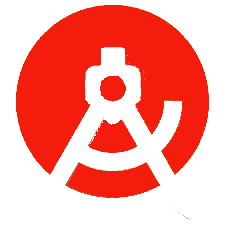
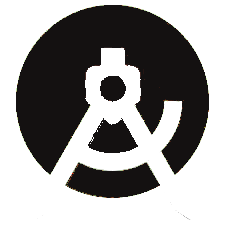
5/19 and 5/21 Devlogs
Picture Updates and CAD content

diff --git a/software.html b/software.html
@@ -63,7 +63,7 @@
             for complex path following. Roadrunner can create profiles for proportional, integral, and derivative control, motion profiles on a singular axis as well as complex paths
             for a robot to follow. Implementing this into our code allows us to take full advantage of our holonomic drivetrain during the autonomous period, as well
             as minimize error during the autonomous period. Tuning the PID of the robot and creating paths to follow is an ongoing process.</p>
-            <img src="Imgs/compass.png"class="projectImg">
+            <img src="Imgs/PID2.png"class="projectImg"> <!---FLAG FOR REPLACEMENT*/--->
         </div>
     </div>
 </section>
@@ -74,19 +74,19 @@
             <h3 class="projectTitle">GitHub</h3>
             <p class="projectText">The team has established a git repository for each year, and for the 2019-2020 season two individual repositories for each robot. Github
             helps keep us organized as well as keep track of a "final" version of the code that we can view for competitions.</p>
-            <img src="Imgs/github.png"class="projectImg">
+            <img src="Imgs/github.png"class="projectImg"> <!---FLAG FOR REPLACEMENT*/--->
         </div>
         <div class="projectSection">
             <h3 class="projectTitle">Android Studio</h3>
             <p class="projectText"> The team uses Android Studio to develop code in Java. FTC provides teams with a standard "base" version of the code used to interact
             with the robot, this only contains examples for how to program and teams must develop and expand from there.</p>
-            <img src="Imgs/AStudio.png"class="projectImg">
+            <img src="Imgs/AStudio.png"class="projectImg"> <!---FLAG FOR REPLACEMENT*/--->
         </div>
         <div class="projectSection">
             <h3 class="projectTitle">FTC Dashboard</h3>
             <p class="projectText">FTC Dashboard is a gradle plugin built by another FTC team that allows us to see telemetry data from the robot on a computer. We can then
             graph this information or save it for later. This helps greatly with PID tuning.</p>
-            <img src="Imgs/compass.png"class="projectImg">
+            <img src="Imgs/Graphs.png"class="projectImg"> <!---FLAG FOR REPLACEMENT*/--->
         </div>
     </div>
 </section>

diff --git a/devBlog.html b/devBlog.html
@@ -24,6 +24,31 @@
 <section class="development">
     <h2 class="devSubHeader">Blog Entries:</h2>
     <article class="blog">
+        <h3 class="blogTitle">Man is Photoshop Complicated</h3>
+        <h4 class="blogDate">5/21/2020</h4>
+        <p class = "blogText"> Well yesterday I couldn't do much but today I used Photoshop to clean up and add new silhouetted images for the software page. I also <br>
+            have new content in for the CAD pages and replaced all those images I marked
+            TODO: <br>
+            Do Sea Cadets Page <br>
+            Do Personal Projects Page
+
+        </p>
+    </article>
+    <article class="blog">
+        <h3 class="blogTitle"> DevRush2: Electric Boogaloo</h3>
+        <h4 class="blogDate">5/19/2020</h4>
+        <p class = "blogText"> OK yeah this got abandoned for a bit, but I'm back! After a bit of research I think for now I'm good with keeping the site as-is in terms of layout. <br>
+            I want to focus on content instead of fancy scrolling images or something (especially considering I'm lacking good images). So far I've flagged placeholder images for replacement.. <br>
+            And I'm waiting to receive the replacements from school sources. I've also gotta get photoshop on the computer again to edit the Silhouetted logos.
+            TODO: <br>
+            Retreive new images <br>
+            Download photoshop <br>
+            Edit and Replace placeholder images <br>
+            UPDATE ROBOTICS CAD: Cinnaminson Lessona and Robots to the Rescue
+
+        </p>
+    </article>
+    <article class="blog">
         <h3 class="blogTitle"> Day 6 and 7 combined</h3>
         <h4 class="blogDate">4/14/2020</h4>
         <p class = "blogText"> Unfortunately I've been sick (not with coronavirus) over the last couple of days, so working on this was sub-optimal. I couldn't get the 4/14

diff --git a/CADMachine.html b/CADMachine.html
@@ -78,6 +78,32 @@
         <img src="Imgs/Lathe2.PNG" class="standardImg">
     </div>
 </section>
+<section class="standardContainer">
+    <div class="standardTextBox">
+        <div class="standardTextBoxSub">
+            <h4 class="standardHeader">Robots to the Rescue Competition</h4>
+            <p>When the 2020 FIRST season was canceled, FIRST worked with ONSHAPE to create a challenge where students would CAD robots that could solve a world problem.
+            I teamed up with several students from NEMESIS Prime, and CADed together a robot to submit for the competion. The attached picture is
+            of one of the sides of the drive train that I designed for the competition.</p>
+        </div>
+    </div>
+    <div class="standardImageBox">
+        <img src="Imgs/RRRCAD2.PNG" class="standardImg">
+    </div>
+</section>
+<section class="standardContainer left">
+    <div class="standardTextBox">
+        <div class="standardTextBoxSub">
+            <h4 class="standardHeader">Teaching Others</h4>
+            <p>NEMESIS Prime strives to spread our knowledge of STEM skills to others, as such, two other members and I have planned and taught two different lessons on CAD
+            software. The first one was hosted at our high school, where we taught students of VEX robotics teams from the area about Autodesk Inventor. For the second, we went
+            to Cinnaminson High School and taught students there about ONSHAPE, a free, browser and cloud-based software.</p>
+        </div>
+    </div>
+    <div class="standardImageBox">
+        <img src="Imgs/Cinnaminson.jpg" class="standardImg">
+    </div>
+</section>
 <section class="quoteContainer">
     <h4 class="quoteText">"If my mind can conceive it, and my heart can believe it - then I can achieve it."</h4>
     <h5 class="quoteCite">-Muhammad Ali</h5>

diff --git a/competitions.html b/competitions.html
@@ -18,7 +18,7 @@
     </nav>
 </header>
 <section id="aboutContainer">
-    <img src="Imgs/Headshot.jpg" id="selfPic">
+    <img src="Imgs/CompPic.jpg" id="selfPic">
     <div id="aboutText">
         <h4 id="aboutTitle">Competitions</h4>
         <p><br>The hard work we put in on the robotics team culminates in competitions, where teams cooperate and compete to advance to state, and even worlds competitions.
@@ -74,7 +74,7 @@
     <div class="standardTextBox">
         <div class="standardTextBoxSub">
             <h4 class="standardHeader">The Game</h4>
-            <p>most annual FTC games are divided into three main periods. A 30 second autonomous period where robot's operate using only sensors and without external
+            <p>Most annual FTC games are divided into three main periods. A 30 second autonomous period where robot's operate using only sensors and without external
             guidance. A 1 minute 30 second driver controlled period, where drivers control the robot's using approved gamepads, as well as a 30 second engame, which
             is a continuation of the driver controlled period, and contains extra objectives for teams to accomplish. This year's game is Skystone, focusing on
             stacking interlocking blocks in a tower.</p>

diff --git a/FTCRobotics.html b/FTCRobotics.html
@@ -18,7 +18,7 @@
     </nav>
 </header>
 <section id="aboutContainer">
-    <img src="Imgs/AwardPic.jpg" id="selfPic">
+    <img src="Imgs/TeamPic.JPG" id="selfPic">
     <div id="aboutText">
         <h4 id="aboutTitle">Robotics</h4>
         <p><br>FTC 14020 is a First Tech Challenge Robotics team based in Robbinsville High School We are 15 dedicated members who work together to create a robot
@@ -54,7 +54,7 @@
         </div>
     </div>
     <div class="standardImageBox">
-        <img src="Imgs/CAD1.PNG.png" class="standardImg">
+        <img src="Imgs/RRRCAD1.png" class="standardImg">
     </div>
 </section>
 <section class="standardContainer">
